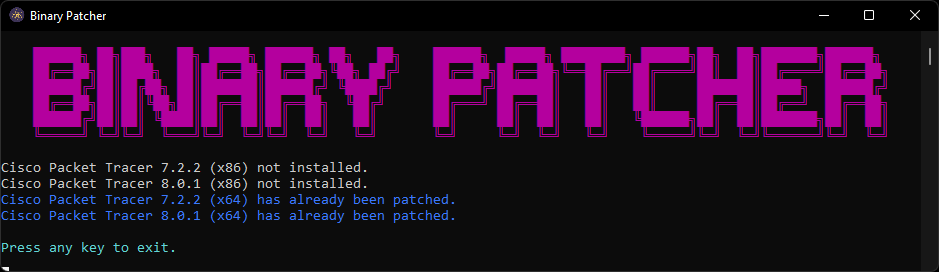
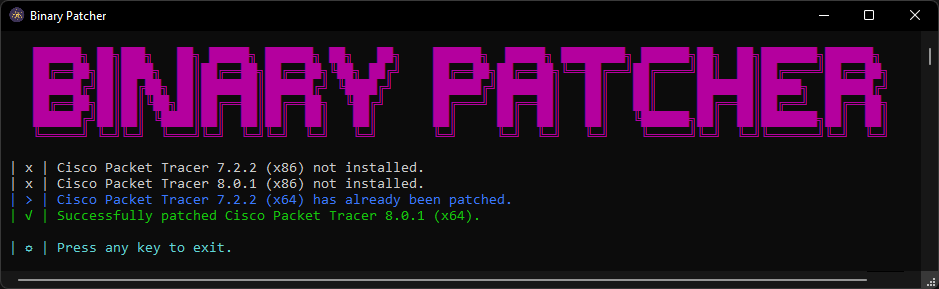
UI update

diff --git a/BinaryPatcher/Targets.cs b/BinaryPatcher/Targets.cs
@@ -56,13 +56,13 @@ namespace BinaryPatcher
         {
             if (!File.Exists(path))
             {
-                Interface.Write(name + " not installed.", ConsoleColor.Gray);
+                Interface.Write(" | x | " + name + " not installed.", ConsoleColor.Gray);
                 return;
             }
             var backup = path + ".bak";
             if (File.Exists(backup))
             {
-                Interface.Write(name + " has already been patched.", ConsoleColor.Blue);
+                Interface.Write(" | > | " + name + " has already been patched.", ConsoleColor.Blue);
                 return;
             }
             TaskKill.Run(Path.GetFileNameWithoutExtension(path));
@@ -76,7 +76,7 @@ namespace BinaryPatcher
                     fileStream.Write(patch, 0, patch.Length);
                 }
             }
-            Interface.Write("Successfully patched " + name + ".", ConsoleColor.Green);
+            Interface.Write(" | ✓ | Successfully patched " + name + ".", ConsoleColor.Green);
         }
     }
 }

diff --git a/BinaryPatcher/Interface.cs b/BinaryPatcher/Interface.cs
@@ -23,7 +23,7 @@ namespace BinaryPatcher
 
         public static void Finish()
         {
-            Write("\nPress any key to exit.", ConsoleColor.Cyan);
+            Write("\n | ¤ | Press any key to exit.", ConsoleColor.Cyan);
             Console.ReadKey();
         }
 
